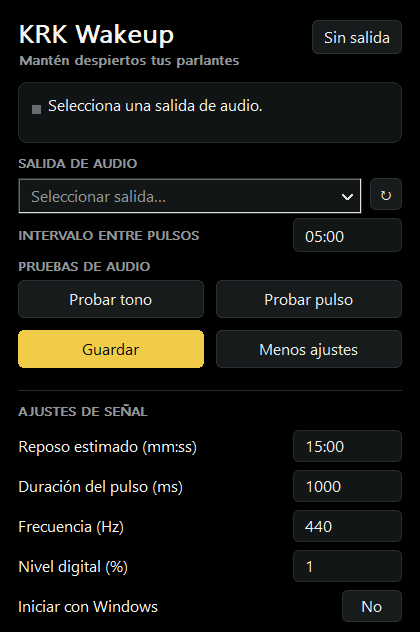
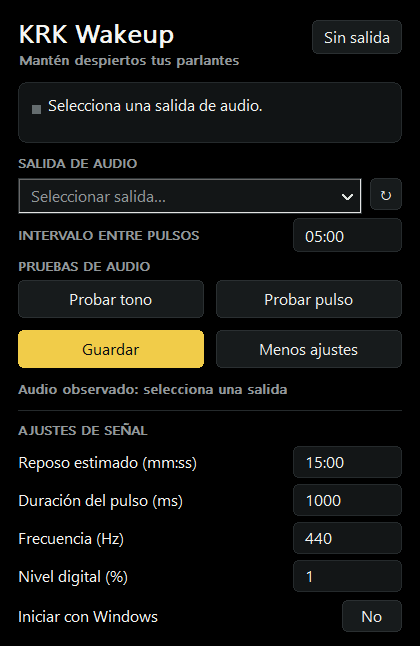
Document diagnostics and software review for v0.2.0

diff --git a/src/app.cpp b/src/app.cpp
@@ -228,7 +228,11 @@ private:
                 : 0;
             LogEvent("pulse_start", std::string("kind=") +
                 (test == TestKind::Tone ? "tone" : test == TestKind::Pulse ? "test" : "automatic") +
-                " late_ms=" + std::to_string(late));
+                " late_ms=" + std::to_string(late) +
+                " duration_ms=" + std::to_string(test == TestKind::Tone ? 3000 : current.durationMs) +
+                " frequency_hz=" + std::to_string(test == TestKind::Tone ? 440 : current.frequencyHz) +
+                " level_pct=" + std::to_string(test == TestKind::Tone ? 5 : current.levelPercent) +
+                " interval_s=" + std::to_string(current.intervalSeconds));
             status_ = test == TestKind::Tone ? L"Reproduciendo tono de prueba…"
                     : test == TestKind::Pulse ? L"Enviando pulso de prueba…"
                     : L"Enviando pulso…";
@@ -676,7 +680,8 @@ void UpdateStatus() {
     std::wstring activity;
     if (g_config.endpointId.empty()) activity = L"Audio observado: selecciona una salida";
     else if (audio.state == AudioActivityState::Unavailable) activity = L"Monitor de audio: salida no disponible";
-    else if (audio.state == AudioActivityState::Unknown) activity = L"Monitor de audio: esperando una lectura";
+    else if (audio.state == AudioActivityState::Unknown) activity =
+        std::strcmp(audio.stage, "activity_stalled") == 0 ? L"Monitor de audio sin respuesta" : L"Monitor de audio: esperando una lectura";
     else if (audio.hasLastActivity) {
         const unsigned age = static_cast<unsigned>(std::min<uint64_t>((tick - audio.lastActivityTickMs) / 1000, 999999));
         activity = L"Audio observado hace " + FormatTime(age);
@@ -955,9 +960,20 @@ void SetExpanded(bool expanded) {
                    Scale(expanded ? kClientExpandedHeight : kClientCompactHeight)};
     AdjustWindowRectExForDpi(&bounds, static_cast<DWORD>(GetWindowLongW(g_window, GWL_STYLE)),
                              FALSE, static_cast<DWORD>(GetWindowLongW(g_window, GWL_EXSTYLE)), g_dpi);
-    SetWindowPos(g_window, nullptr, 0, 0,
-                 bounds.right - bounds.left, bounds.bottom - bounds.top,
-                 SWP_NOMOVE | SWP_NOZORDER | SWP_NOACTIVATE);
+    const int width = bounds.right - bounds.left;
+    const int height = bounds.bottom - bounds.top;
+    RECT position{};
+    GetWindowRect(g_window, &position);
+    MONITORINFO monitor{};
+    monitor.cbSize = sizeof(monitor);
+    if (GetMonitorInfoW(MonitorFromWindow(g_window, MONITOR_DEFAULTTONEAREST), &monitor)) {
+        position.left = std::max(monitor.rcWork.left,
+                                 std::min(position.left, monitor.rcWork.right - width));
+        position.top = std::max(monitor.rcWork.top,
+                                std::min(position.top, monitor.rcWork.bottom - height));
+    }
+    SetWindowPos(g_window, nullptr, position.left, position.top, width, height,
+                 SWP_NOZORDER | SWP_NOACTIVATE);
     InvalidateRect(g_window, nullptr, TRUE);
 }
 
@@ -1195,7 +1211,8 @@ int WINAPI wWinMain(HINSTANCE instance, HINSTANCE, PWSTR commandLine, int) {
     }
     LoadConfig();
     InitDiagnostics(g_settingsPath);
-    if (!SetDiagnosticsEnabled(g_config.diagnostics)) g_config.diagnostics = false;
+    const bool diagnosticsInitFailed = !SetDiagnosticsEnabled(g_config.diagnostics);
+    if (diagnosticsInitFailed) g_config.diagnostics = false;
     LogEvent("app_start", "version=" KRK_WAKEUP_VERSION);
     if (g_config.startup) SetStartup(true);
     g_dpi = GetDpiForSystem();
@@ -1248,6 +1265,9 @@ int WINAPI wWinMain(HINSTANCE instance, HINSTANCE, PWSTR commandLine, int) {
     DwmSetWindowAttribute(window, DWMWA_CAPTION_COLOR,
                           &caption, sizeof(caption));
     RefreshEndpoints();
+    if (diagnosticsInitFailed)
+        MessageBoxW(window, L"No se pudo crear el registro de diagnóstico. Revisa el acceso a la carpeta de ajustes.",
+                    L"KRK Wakeup", MB_OK | MB_ICONWARNING);
     if (g_config.endpointId.empty()) ShowSettings();
     UpdateStatus();
     MSG message;

diff --git a/src/diagnostics.cpp b/src/diagnostics.cpp
@@ -59,12 +59,12 @@ bool WriteLocked(const char* event, const std::string& details) {
     GetSystemTime(&utc);
     char prefix[224];
     std::snprintf(prefix, sizeof(prefix),
-        "%04u-%02u-%02uT%02u:%02u:%02u.%03uZ tick_ms=%llu instance=%s pid=%lu event=%s",
+        "%04u-%02u-%02uT%02u:%02u:%02u.%03uZ tick_ms=%llu instance=%s pid=%lu version=%s event=%s",
         static_cast<unsigned>(utc.wYear), static_cast<unsigned>(utc.wMonth),
         static_cast<unsigned>(utc.wDay), static_cast<unsigned>(utc.wHour),
         static_cast<unsigned>(utc.wMinute), static_cast<unsigned>(utc.wSecond),
         static_cast<unsigned>(utc.wMilliseconds), static_cast<unsigned long long>(GetTickCount64()),
-        g_instance.c_str(), GetCurrentProcessId(), event);
+        g_instance.c_str(), GetCurrentProcessId(), KRK_WAKEUP_VERSION, event);
     const std::string line = std::string(prefix) + (details.empty() ? "" : " " + details) + "\r\n";
     DWORD written = 0;
     const bool ok = WriteFile(file, line.data(), static_cast<DWORD>(line.size()), &written, nullptr) &&

diff --git a/README.md b/README.md
@@ -18,7 +18,7 @@
 
 **KRK Wakeup** es una utilidad pequeña para Windows que envía una señal de audio breve a una salida elegida por el usuario. Nació para evitar que unos KRK GoAux 3 conectados por RCA a un SMSL SU-1 entren en reposo durante pausas largas.
 
-> **Estado:** v0.1.3 publicada. Hay apagados intermitentes con un intervalo de 18 minutos, especialmente durante sesiones bloqueadas aunque el PC permanezca despierto. Esta versión corrige un caso que marcaba como exitoso un pulso sin terminar de consumir el audio y añade diagnóstico local. La causa del incidente concreto y la eficacia prolongada en los GoAux todavía requieren pruebas físicas.
+> **Estado:** v0.2.0 publicada. Siguen bajo investigación apagados intermitentes con intervalos de 15–18 minutos cuando se apaga la pantalla y el PC permanece despierto. Esta versión añade diagnóstico optativo, actividad observada en la salida elegida y recuperación de llamadas de audio bloqueadas. Aún falta validar el resultado durante varias horas con los GoAux reales.
 
 <p align="center">
   <img src="assets/banner.svg" alt="KRK Wakeup: una señal breve, tus parlantes listos" width="100%">
@@ -55,14 +55,16 @@ La idea es sencilla: mientras la utilidad esté activa, genera un pulso discreto
 - Ajustes ampliables de reposo estimado, duración, frecuencia y nivel digital de la señal.
 - Inicio opcional al entrar en la cuenta de Windows, sin instalador ni privilegios de administrador.
 - Reintentos cada 5 segundos ante fallos de audio y recuperación inmediata al reanudar Windows; nunca redirige los pulsos automáticamente a otra salida.
-- Registro local de pulsos, errores de audio, bloqueo y suspensión, accesible desde **Abrir registro** en el menú junto al reloj. Detecta si Windows tiene silenciada la salida o la sesión de audio de la app.
+- Diagnóstico detallado **optativo y desactivado inicialmente**, con un reporte por ejecución y registro de errores, pantalla, bloqueo y suspensión.
+- Contador de la última actividad de audio observada en la salida seleccionada, incluido audio de otras aplicaciones. Detecta mute/volumen del endpoint como contexto.
+- Recuperación de envíos bloqueados mediante un proceso de audio con tiempo límite; pausar, salir o cambiar de salida cancela el envío activo.
 
 El alcance inicial es **Windows 11 x64 → USB → SMSL SU-1 → RCA → KRK GoAux 3**. Windows 10 queda como objetivo de compatibilidad posterior, sujeto a pruebas.
 
 ## Descargar y probar
 
-1. En [Releases](https://github.com/reiterstahl/krk-wakeup/releases), descarga **`krk-wakeup-v0.1.3-windows-x64.zip`** de la versión **v0.1.3** y extrae su contenido en una carpeta estable. Incluye `krk-wakeup.exe`, la licencia y la documentación. Las compilaciones de desarrollo siguen disponibles en [Windows build](https://github.com/reiterstahl/krk-wakeup/actions/workflows/windows.yml).
-2. Si ya ejecutas una versión anterior, usa **Salir** en su icono junto al reloj antes de reemplazar el archivo `.exe`. La configuración se conserva. Ejecuta v0.1.3 manualmente una vez: si ya tenías activado el inicio con Windows, actualizará la ruta registrada para el nuevo ejecutable.
+1. En [Releases](https://github.com/reiterstahl/krk-wakeup/releases), descarga **`krk-wakeup-v0.2.0-windows-x64.zip`** de la versión **v0.2.0** y extrae su contenido en una carpeta estable. Incluye `krk-wakeup.exe`, la licencia y la documentación. Las compilaciones de desarrollo siguen disponibles en [Windows build](https://github.com/reiterstahl/krk-wakeup/actions/workflows/windows.yml).
+2. Si ya ejecutas una versión anterior, usa **Salir** en su icono junto al reloj antes de reemplazar el archivo `.exe`. La configuración se conserva. Ejecuta v0.2.0 manualmente una vez: si ya tenías activado el inicio con Windows, actualizará la ruta registrada para el nuevo ejecutable.
 3. Abre la aplicación y selecciona la salida de reproducción que corresponde al **SMSL SU-1**. Puedes comparar su nombre con **Configuración → Sistema → Sonido** de Windows.
 4. Con un volumen cómodo en los GoAux, pulsa **Probar tono**. Reproduce 3 segundos a 440 Hz y 5 % de nivel digital solo por la salida seleccionada, incluso si la aplicación está pausada. Confirma que se oye en los GoAux y no en otro dispositivo. Después, pulsa **Probar pulso**: usa la señal automática configurada, cuyo perfil inicial es **440 Hz**, **1000 ms** y **1 %** de nivel digital. Ajusta estos valores en **Más ajustes** si la señal molesta o no evita el reposo.
 5. Guarda la configuración. Cambia la salida predeterminada de Windows a tus auriculares BT y comprueba que la prueba sigue saliendo solo por el DAC. Después, deja los GoAux sin otro audio durante más de su tiempo habitual de reposo y observa si permanecen activos.
@@ -71,19 +73,36 @@ Los campos de tiempo usan `mm:ss`. **Reposo estimado** sirve de referencia para 
 
 **Frecuencia** acepta de **10 a 15000 Hz**. Para ensayar una frecuencia baja, usa **Probar pulso**, que reproduce tus ajustes. **Probar tono** sigue siendo la prueba audible fija de 440 Hz. Las frecuencias bajas son experimentales: su eficacia para evitar el reposo aún debe comprobarse en los GoAux.
 
-Un intervalo de **20 minutos** no evitó el reposo en los GoAux de prueba; **18 minutos** funcionó inicialmente, pero después se observaron apagados intermitentes con el equipo bloqueado y despierto. Un único pulso perdido con ese intervalo puede dejar unos 36 minutos sin señal efectiva. Para uso provisional, el valor inicial de **5 minutos** deja más margen respecto a los 15 minutos estimados. Si se apagan incluso con un intervalo corto, usa **Probar tono** para confirmar la ruta de audio y ajusta nivel y duración de uno en uno. El umbral de detección de los GoAux no está publicado en su manual. Comprueba también que Windows y el SMSL SU-1 no estén silenciados.
+Un intervalo de **20 minutos** no evitó el reposo en los GoAux de prueba; **18 minutos** funcionó inicialmente, pero después se observaron apagados intermitentes con 18 y 15 minutos, con pantalla apagada y el PC despierto. Un único pulso perdido con ese intervalo puede dejar unos 36 minutos sin señal efectiva. Para uso provisional, el valor inicial de **5 minutos** deja más margen respecto a los 15 minutos estimados. Si se apagan incluso con un intervalo corto, usa **Probar tono** para confirmar la ruta de audio y ajusta nivel y duración de uno en uno. El umbral de detección de los GoAux no está publicado en su manual. Comprueba también que Windows y el SMSL SU-1 no estén silenciados.
 
 **Al bloquear Windows con Win + L**, la utilidad sigue ejecutándose mientras el equipo permanezca encendido. Si Windows entra en suspensión o hibernación, los procesos de escritorio se pausan y la app solicita un nuevo pulso al reanudar, siempre que esté activa y tenga una salida seleccionada. [Documentación de Microsoft sobre suspensión](https://learn.microsoft.com/en-us/windows-hardware/design/device-experiences/integrating-apps-with-modern-standby).
 
-## Diagnosticar un apagado
+## Diagnóstico optativo y última actividad
 
-La versión 0.1.3 prepara el primer bloque antes de iniciar WASAPI y solo confirma el pulso cuando el búfer queda consumido. Si el búfer no termina de vaciarse, lo trata como un error y reintenta a los 5 segundos. El intervalo normal se mide entre comienzos de pulso; guardar ajustes no pospone un envío ya programado.
+Haz clic derecho en el icono junto al reloj y elige **Activar diagnóstico**. La opción se guarda inmediatamente y se conserva al reiniciar la app. **Desactivar diagnóstico** detiene las escrituras. Inicialmente está apagado, incluso al actualizar desde v0.1.3. El contador de actividad de la ventana sigue funcionando en memoria aunque no guardes registros.
 
-Si vuelve a ocurrir, abre **Abrir registro** en el menú del icono junto al reloj. El archivo está en `%LOCALAPPDATA%\KRKWakeup\diagnostics.log`. Guarda horas UTC, parámetros de señal, intentos (`pulse_start`), resultados (`pulse_ok` o `pulse_error`), códigos de error y eventos de bloqueo/suspensión. Un `heartbeat` cada minuto permite ver si la app seguía ejecutándose y cuánto tiempo llevaba sin un envío confirmado. Al alcanzar aproximadamente 1 MiB conserva una copia anterior en `diagnostics.previous.log`.
+**Abrir registros** abre `%LOCALAPPDATA%\KRKWakeup\Logs`. Cada ejecución tiene un archivo `krk-wakeup-<UTC>-<PID>.log`, con identificador de instancia, versión, parámetros de señal y tiempos UTC. Los archivos rotan aproximadamente a 1 MiB y se conservan hasta 12 partes/reportes. Los registros antiguos de v0.1.3 permanecen en su ubicación anterior.
 
-`pulse_ok` confirma que Windows consumió el búfer; no puede confirmar que el DAC emitiera una señal suficiente ni que los parlantes reiniciaran su temporizador. Si un controlador tarda más de 15 segundos en responder, la app muestra **Audio sin respuesta** y lo registra; una llamada bloqueada dentro del controlador todavía puede requerir reiniciar la app. Los registros son locales y no contienen nombres del equipo, rutas del ejecutable ni identificadores de dispositivos.
+| Dato del reporte | Qué permite comprobar |
+| --- | --- |
+| `pulse_start`, `pulse_ok`, `pulse_error` | Cada intento, su retraso, resultado, duración y etapa/código de error. |
+| `last_pulse_utc`, `last_pulse_age_ms` | Último pulso confirmado por Windows en la salida actual y tiempo transcurrido. |
+| `last_audio_utc`, `last_audio_age_ms` | Última señal observada en esa salida, incluida música y audio de otras aplicaciones. |
+| `poll_age_ms`, `progress_age_ms`, `attempt_age_ms` | Si el observador seguía respondiendo, estaba reconectando o dejó de obtener lecturas. |
+| `display_state`, `session_lock`, `power_suspend`, `power_resume` | Pantalla apagada/encendida, bloqueo y suspensión/reanudación real. |
+| `heartbeat` | Resumen cada 30 segundos con la actividad, el siguiente envío y el estado del trabajador. |
 
-Para las primeras pruebas de esta corrección, un intervalo de **5 a 10 minutos** deja más margen que 18 minutos. Si los parlantes se apagan, conserva el registro antes de cerrar la app e indica la hora aproximada: permitirá distinguir un error de Windows, un retraso y un pulso confirmado que no evitó el reposo físico.
+La ventana muestra **Audio observado hace mm:ss**. Se consulta el medidor de la salida guardada cada 100 ms, sin abrir un stream de reproducción ni grabar audio. El historial comienza al abrir la app y se reinicia si eliges otra salida; este observador no modifica el intervalo de los pulsos.
+
+Hay límites: el [medidor de Windows](https://learn.microsoft.com/en-us/windows/win32/api/endpointvolume/nn-endpointvolume-iaudiometerinformation) mide antes del volumen/mute del endpoint, y un medidor por software no ve audio en modo exclusivo. Además, cada [lectura cubre un período del dispositivo](https://learn.microsoft.com/en-us/windows/win32/api/endpointvolume/nf-endpointvolume-iaudiometerinformation-getpeakvalue), por lo que el muestreo puede perder sonidos muy breves. Un dato desconocido o un observador sin respuesta no se presentan como silencio confirmado. `pulse_ok` tampoco demuestra sonido físico por RCA ni que los KRK reiniciaran su temporizador.
+
+El informe solo guarda tiempos, estados y niveles/metadatos; no graba audio ni incluye nombres del equipo, rutas del ejecutable o identificadores de dispositivos. Para probar esta versión, conviene usar **5–10 minutos**. Si los parlantes se apagan, conserva el reporte de esa ejecución y anota la hora aproximada.
+
+## Revisión de fiabilidad
+
+Un envío ahora se ejecuta en una copia oculta y acotada del mismo ejecutable. Si el controlador se bloquea, vence un límite global de duración del pulso más 10 segundos; el helper se termina y la app reintenta. Se mantienen la precarga del búfer, la comprobación de vaciado y el intervalo entre comienzos de pulso. También se borran los datos del último pulso al cambiar de salida y se cancelan envíos antiguos al pausar, salir o cambiar la señal.
+
+La [revisión técnica](docs/REVIEW-2026-10-18.md) detalla los hallazgos y las pruebas. La prueba de una llamada que nunca vuelve usa un renderer simulado; no sustituye las pruebas reales del SMSL SU-1 con la pantalla apagada.
 
 ## Inicio con Windows
 
@@ -108,7 +127,7 @@ cmake -S . -B build -A x64
 cmake --build build --config Release
 ```
 
-El archivo estará en `build\Release\krk-wakeup.exe`. Cada cambio en `main` ejecuta la compilación y pruebas de arranque, registro de inicio, vaciado/temporización y recuperación con eventos de bloqueo y reanudación simulados en GitHub Actions. Estas pruebas no miden el reposo físico; los [pasos de validación](docs/PLAN.md) describen esa comprobación.
+El archivo estará en `build\Release\krk-wakeup.exe`. Cada cambio en `main` ejecuta la compilación y pruebas de arranque, registro de inicio, vaciado/temporización, aislamiento de llamadas bloqueadas, diagnóstico optativo y recuperación con eventos de bloqueo y reanudación simulados en GitHub Actions. Estas pruebas no miden el reposo físico; los [pasos de validación](docs/PLAN.md) describen esa comprobación.
 
 ## Proyecto
 

diff --git a/README.en.md b/README.en.md
@@ -18,7 +18,7 @@
 
 **KRK Wakeup** is a small Windows utility that sends a short audio signal to an output you choose. It was created to prevent KRK GoAux 3 speakers connected over RCA to an SMSL SU-1 from entering standby during long pauses.
 
-> **Status:** v0.1.3 is released. Intermittent standby has been observed with an 18-minute interval, especially while the session is locked and the PC remains awake. This version fixes a case where a pulse was reported as successful before the audio buffer was fully consumed and adds local diagnostics. The cause of the specific incident and long-term effectiveness on the GoAux still require physical testing.
+> **Status:** v0.2.0 is released. Intermittent standby at 15–18 minute intervals remains under investigation while the screen is off and the PC stays awake. This version adds opt-in diagnostics, selected-output activity observations, and recovery from blocked audio calls. Extended testing with physical GoAux speakers is still needed.
 
 <p align="center">
   <img src="assets/banner.svg" alt="KRK Wakeup: a short signal to keep your speakers ready" width="100%">
@@ -55,14 +55,16 @@ The idea is simple: while the utility is active, it sends a discreet pulse befor
 - Additional settings for estimated standby time, pulse duration, frequency, and digital level.
 - Optional startup when the current user signs in to Windows, without an installer or administrator rights.
 - Retry audio failures every 5 seconds and request an immediate pulse when Windows resumes; pulses are never redirected automatically to another output.
-- Local pulse, audio error, lock, and suspend diagnostics, available through **Abrir registro** (Open log) in the notification area menu. Detects a muted output or app audio session in Windows.
+- Detailed **opt-in diagnostics, initially off**, with a report per run and audio error, screen, lock, and power events.
+- A counter for the last audio activity observed on the selected output, including other apps, with endpoint mute/volume context.
+- Recovery from blocked audio calls using a renderer process with a deadline; pausing, exiting, or switching outputs cancels the active attempt.
 
 The initial target setup is **Windows 11 x64 → USB → SMSL SU-1 → RCA → KRK GoAux 3**. Windows 10 is a later compatibility goal and still requires testing.
 
 ## Download and test
 
-1. Open [Releases](https://github.com/reiterstahl/krk-wakeup/releases), download **`krk-wakeup-v0.1.3-windows-x64.zip`** from **v0.1.3**, and extract its contents to a stable folder. It includes `krk-wakeup.exe`, the license, and documentation. Development builds remain available in [Windows build](https://github.com/reiterstahl/krk-wakeup/actions/workflows/windows.yml).
-2. If an older version is running, choose **Salir** (Exit) from its notification area menu before replacing the `.exe`. Your settings will remain in place. Run v0.1.3 manually once: if startup was enabled, it will update the registered path to this executable.
+1. Open [Releases](https://github.com/reiterstahl/krk-wakeup/releases), download **`krk-wakeup-v0.2.0-windows-x64.zip`** from **v0.2.0**, and extract its contents to a stable folder. It includes `krk-wakeup.exe`, the license, and documentation. Development builds remain available in [Windows build](https://github.com/reiterstahl/krk-wakeup/actions/workflows/windows.yml).
+2. If an older version is running, choose **Salir** (Exit) from its notification area menu before replacing the `.exe`. Your settings will remain in place. Run v0.2.0 manually once: if startup was enabled, it will update the registered path to this executable.
 3. Open the app and select the playback output corresponding to the **SMSL SU-1**. You can compare its name with **Settings → System → Sound** in Windows.
 4. Set the GoAux speakers to a comfortable volume, then click **Probar tono** (Test tone). It plays for three seconds at 440 Hz and 5% digital level only through the selected output, even if the app is paused. Confirm that you hear it on the GoAux and nowhere else. Next, click **Probar pulso** (Test pulse): it uses the configured automatic signal, initially **440 Hz**, **1000 ms**, and **1%** digital level. Change these values under **Más ajustes** (More settings) if the signal is annoying or fails to prevent standby.
 5. Save your settings. Switch the Windows default output to Bluetooth headphones and confirm the test still plays only through the DAC. Then leave the GoAux without other audio for longer than their usual standby time and check whether they remain active.
@@ -71,19 +73,36 @@ Time fields use `mm:ss`. **Reposo estimado** (Estimated standby) is a calibratio
 
 **Frecuencia** (Frequency) accepts **10 to 15000 Hz**. To try a low frequency, use **Probar pulso** (Test pulse), which plays your configured settings. **Probar tono** (Test tone) remains the fixed audible test at 440 Hz. Low frequencies are experimental: their effectiveness at preventing standby still needs to be checked on the GoAux.
 
-A **20-minute** interval did not prevent standby in the tested GoAux; **18 minutes** initially worked, but intermittent standby later occurred while the PC was locked and awake. A single missed pulse at that interval can leave about 36 minutes without an effective signal. For now, the default **5-minute** interval leaves more margin relative to the estimated 15-minute standby time. If they go to sleep even with a short interval, use **Probar tono** (Test tone) to confirm the audio route, then change pulse level and duration one at a time. KRK does not publish the GoAux detection threshold in its manual. Also check that neither Windows nor the SMSL SU-1 is muted.
+A **20-minute** interval did not prevent standby in the tested GoAux; **18 minutes** initially worked, but intermittent standby later occurred at both 18 and 15 minutes while the screen was off and the PC stayed awake. A single missed pulse at that interval can leave about 36 minutes without an effective signal. For now, the default **5-minute** interval leaves more margin relative to the estimated 15-minute standby time. If they go to sleep even with a short interval, use **Probar tono** (Test tone) to confirm the audio route, then change pulse level and duration one at a time. KRK does not publish the GoAux detection threshold in its manual. Also check that neither Windows nor the SMSL SU-1 is muted.
 
 **Locking Windows with Win + L** leaves the utility running while the computer remains awake. If Windows enters sleep or hibernation, desktop processes pause and the app requests a new pulse on resume if it is enabled and has a selected output. See [Microsoft's sleep documentation](https://learn.microsoft.com/en-us/windows-hardware/design/device-experiences/integrating-apps-with-modern-standby).
 
-## Diagnose standby
+## Opt-in diagnostics and last activity
 
-Version 0.1.3 fills the initial buffer before starting WASAPI and confirms a pulse only after the buffer has been consumed. If draining times out, it reports a failure and retries after 5 seconds. Regular intervals are measured between pulse starts; saving settings does not postpone an already scheduled pulse.
+Right-click the notification area icon and choose **Activar diagnóstico** (Enable diagnostics). The choice is saved immediately and persists across launches. **Desactivar diagnóstico** stops writes. Diagnostics start off, including when upgrading from v0.1.3. The window’s activity counter continues in memory while file logging is off.
 
-If standby occurs again, choose **Abrir registro** (Open log) from the notification area menu. The file is at `%LOCALAPPDATA%\KRKWakeup\diagnostics.log`. It records UTC timestamps, signal parameters, attempts (`pulse_start`), results (`pulse_ok` or `pulse_error`), error codes, and lock/suspend events. A `heartbeat` every minute shows whether the app was still running and how long it had been since a confirmed pulse. At approximately 1 MiB, it keeps one previous copy as `diagnostics.previous.log`.
+**Abrir registros** opens `%LOCALAPPDATA%\KRKWakeup\Logs`. Each run gets `krk-wakeup-<UTC>-<PID>.log`, with an instance ID, version, signal settings, and UTC timestamps. Reports rotate at approximately 1 MiB; up to 12 parts/reports are retained. Old v0.1.3 logs remain in their previous location.
 
-`pulse_ok` confirms that Windows consumed the buffer; it cannot prove the DAC produced a sufficient signal or the speakers reset their timer. If a driver takes over 15 seconds to respond, the app shows **Audio sin respuesta** (Audio not responding) and logs it; a call blocked inside a driver can still require restarting the app. Logs stay local and do not include computer names, executable paths, or device identifiers.
+| Report field | What it shows |
+| --- | --- |
+| `pulse_start`, `pulse_ok`, `pulse_error` | Each attempt, lateness, result, duration, and error stage/code. |
+| `last_pulse_utc`, `last_pulse_age_ms` | Last Windows-confirmed pulse on the current output and elapsed time. |
+| `last_audio_utc`, `last_audio_age_ms` | Last observed signal on that output, including other apps. |
+| `poll_age_ms`, `progress_age_ms`, `attempt_age_ms` | Whether the observer was responding, reconnecting, or no longer obtaining readings. |
+| `display_state`, `session_lock`, `power_suspend`, `power_resume` | Screen, session lock, and actual sleep/resume events. |
+| `heartbeat` | A 30-second summary of observed audio, next pulse, and worker state. |
 
-For initial testing of this fix, a **5 to 10 minute** interval provides more margin than 18 minutes. If standby occurs, keep the log before closing the app and note the approximate time. This helps distinguish a Windows error, a delay, and a confirmed pulse that did not prevent physical standby.
+The window shows **Audio observado hace mm:ss** (Audio observed mm:ss ago). The saved output’s meter is sampled every 100 ms without opening a playback stream or recording audio. History starts when the app opens and resets when the selected output changes. Observations do not alter the pulse interval.
+
+There are limits: the [Windows meter](https://learn.microsoft.com/en-us/windows/win32/api/endpointvolume/nn-endpointvolume-iaudiometerinformation) operates before endpoint volume/mute, and software meters cannot observe exclusive streams. Each [reading covers one device period](https://learn.microsoft.com/en-us/windows/win32/api/endpointvolume/nf-endpointvolume-iaudiometerinformation-getpeakvalue), so sampling can miss brief sounds. Unknown or stale observations are not reported as confirmed silence. `pulse_ok` also cannot prove analog output over RCA or that the speakers reset their timer.
+
+Reports store timing, state, and level metadata, not audio, computer names, executable paths, or device identifiers. For this trial, use a **5–10 minute** interval. If standby recurs, keep that run’s report and note the approximate time.
+
+## Reliability review
+
+Playback now runs in a hidden, bounded copy of the same executable. A blocked driver call reaches a global deadline of pulse duration plus 10 seconds; the helper is terminated and the app retries. Initial buffer loading, drain verification, and start-to-start intervals are retained. Last-pulse history resets on output changes; pause, exit, and signal changes cancel old attempts.
+
+The [technical review](docs/REVIEW-2026-10-18.md) records findings and tests (Spanish). The never-returning audio call test uses a simulated renderer; physical SMSL SU-1 testing with the screen off remains necessary.
 
 ## Start with Windows
 
@@ -108,7 +127,7 @@ cmake -S . -B build -A x64
 cmake --build build --config Release
 ```
 
-The executable will be at `build\Release\krk-wakeup.exe`. Every change to `main` triggers a build, startup smoke test, startup registration repair test, audio drain/timing tests, and a recovery check with simulated lock/resume notifications in GitHub Actions. These tests do not measure physical standby behavior; the [validation plan](docs/PLAN.md) describes that check (currently in Spanish).
+The executable will be at `build\Release\krk-wakeup.exe`. Every change to `main` triggers a build, startup smoke test, startup registration repair test, audio drain/timing tests, blocked-renderer isolation tests, opt-in diagnostics tests, and a recovery check with simulated lock/resume notifications in GitHub Actions. These tests do not measure physical standby behavior; the [validation plan](docs/PLAN.md) describes that check (currently in Spanish).
 
 ## Project
 

diff --git a/docs/REVIEW-2026-10-18.md b/docs/REVIEW-2026-10-18.md
@@ -1,0 +1,31 @@
+# Revisión de fiabilidad — 18 de octubre de 2026
+
+Caso investigado: los KRK GoAux 3 entran en reposo esporádicamente con intervalos de 15–18 minutos. El usuario confirma que la suspensión de Windows está desactivada: se apaga la pantalla y la PC sigue despierta. No hay un log del incidente que permita atribuir su causa exacta al controlador o a la señal.
+
+## Hallazgos y cambios
+
+| Hallazgo | Corrección en v0.2.0 | Verificación |
+| --- | --- | --- |
+| Las esperas del bucle tenían límite, pero una llamada síncrona a WASAPI podía bloquear al trabajador indefinidamente. | Renderer aislado, límite global de duración + 10 s, cancelación y limpieza mediante un job de Windows. Después de un fallo se reintenta a los 5 s. | Renderer simulado que no vuelve: timeout, cancelación, ausencia de helper huérfano y nuevo envío posterior. También se prueban crash e IPC Unicode/límite de tamaño. |
+| Pausar, cerrar o cambiar de salida no interrumpía una llamada ya iniciada. | La generación de renderizado permite cancelar el helper anterior. | Prueba de cancelación sobre llamada bloqueada y revisión de integración. |
+| Cambiar de salida conservaba el último éxito de la anterior. | Se borran el último pulso confirmado y el historial de observación al cambiar de endpoint. | Revisión del código de configuración y separación explícita del estado. |
+| El diagnóstico estaba siempre activo y solo mostraba los pulsos propios. | Log optativo, inicialmente apagado, con archivos por instancia y observación de todo el audio del endpoint elegido. | Pruebas de ausencia de archivos al estar apagado, activación/desactivación, identidad, rotación, retención y toggle en app. |
+| Guardar ajustes durante un envío podía invalidar el resultado aunque no cambiara la señal. | Generaciones separadas para planificación y cancelación de audio; guardar ajustes ajenos a la señal conserva el envío. | Pruebas de temporización y revisión de concurrencia. |
+| La ventana ampliada podía quedar fuera del área visible tras cambiar tamaño/escala. | Su posición se ajusta al área de trabajo del monitor al ampliar o cambiar DPI. | Revisión de límites y compilación Win32; falta probar múltiples escalas físicas. |
+| Faltaba correlación con el apagado de pantalla. | Registro de cambios de pantalla, bloqueo, suspensión/reanudación, actividad y latencia de intentos. | Integración con mensajes simulados de Windows. |
+
+El planificador existente ya reintentaba errores cada cinco segundos y no se detiene al bloquear la sesión. No se encontró una carrera que pierda despertares en su condición de espera. La nueva revisión conserva la selección estricta de salida y la recuperación al reanudar.
+
+## Alcance de las observaciones
+
+El contador y `last_audio_utc` son la última actividad **observada** por el medidor de Windows. Se consulta cada 100 ms, sin reproducir ni capturar contenido. Incluye otras aplicaciones que usen la misma salida. Una lectura puede perder un sonido muy breve; el medidor software no ve audio exclusivo y el pico es anterior al volumen/mute del endpoint. Mute, volumen, cobertura y antigüedad de consulta se guardan como contexto.
+
+`last_pulse_utc` es independiente: refleja el último pulso cuyo búfer Windows consumió en la salida actual. Ninguno de estos datos confirma sonido físico por RCA ni el estado interno de los KRK. Una señal puede haber sido procesada sin superar el umbral necesario para evitar el reposo.
+
+El observador tiene su propio hilo. Una llamada de observación bloqueada pasa a estado desconocido sin detener el envío de pulsos; el cierre espera un máximo de 500 ms por ese hilo, cuya memoria permanece viva si el controlador no devuelve el control.
+
+## Límites y siguiente prueba
+
+La validación automatizada usa un renderer simulado y endpoints inexistentes. No prueba suspensión real, un USB dormido, audio en modo exclusivo ni el funcionamiento físico del SU-1/GoAux. Una suspensión real impediría emitir pulsos mientras dura; esta versión no cambia el plan de energía.
+
+Recomendación para la siguiente observación: activar diagnóstico, usar temporalmente 5–10 minutos, comprobar la ruta con el tono y conservar el reporte junto con la hora del apagado. Si hay `renderer_timeout`, se podrá confirmar el bloqueo de una llamada. Si todos los pulsos y observaciones aparecen a tiempo, habrá que calibrar la señal o investigar el DAC/los parlantes. El intervalo de 15 minutos todavía no se considera fiable.

diff --git a/docs/PLAN.md b/docs/PLAN.md
@@ -1,6 +1,6 @@
 # Plan inicial de KRK Wakeup
 
-Fecha de investigación: 2026-10-06. Estado: v0.1.3 corrige la confirmación de audio y añade diagnóstico local; una prueba mantuvo los GoAux 3 encendidos unos 45 minutos, mientras que un intervalo de 20 minutos permitió que entraran en reposo. Una prueba inicial con 18 minutos funcionó; después se observaron apagados intermitentes con la sesión bloqueada y el PC despierto. Falta repetir la prueba física con la corrección.
+Fecha de investigación: 2026-10-06. Estado: v0.2.0 incorpora diagnóstico optativo por instancia, observación del endpoint y renderizado con tiempo límite; una prueba mantuvo los GoAux 3 encendidos unos 45 minutos, mientras que un intervalo de 20 minutos permitió que entraran en reposo. Una prueba inicial con 18 minutos funcionó; después se observaron apagados intermitentes con la sesión bloqueada y el PC despierto. También se observaron fallos con 15 minutos. El usuario confirma pantalla apagada y PC despierto; falta repetir la prueba física con la nueva corrección.
 
 ## Objetivo
 
